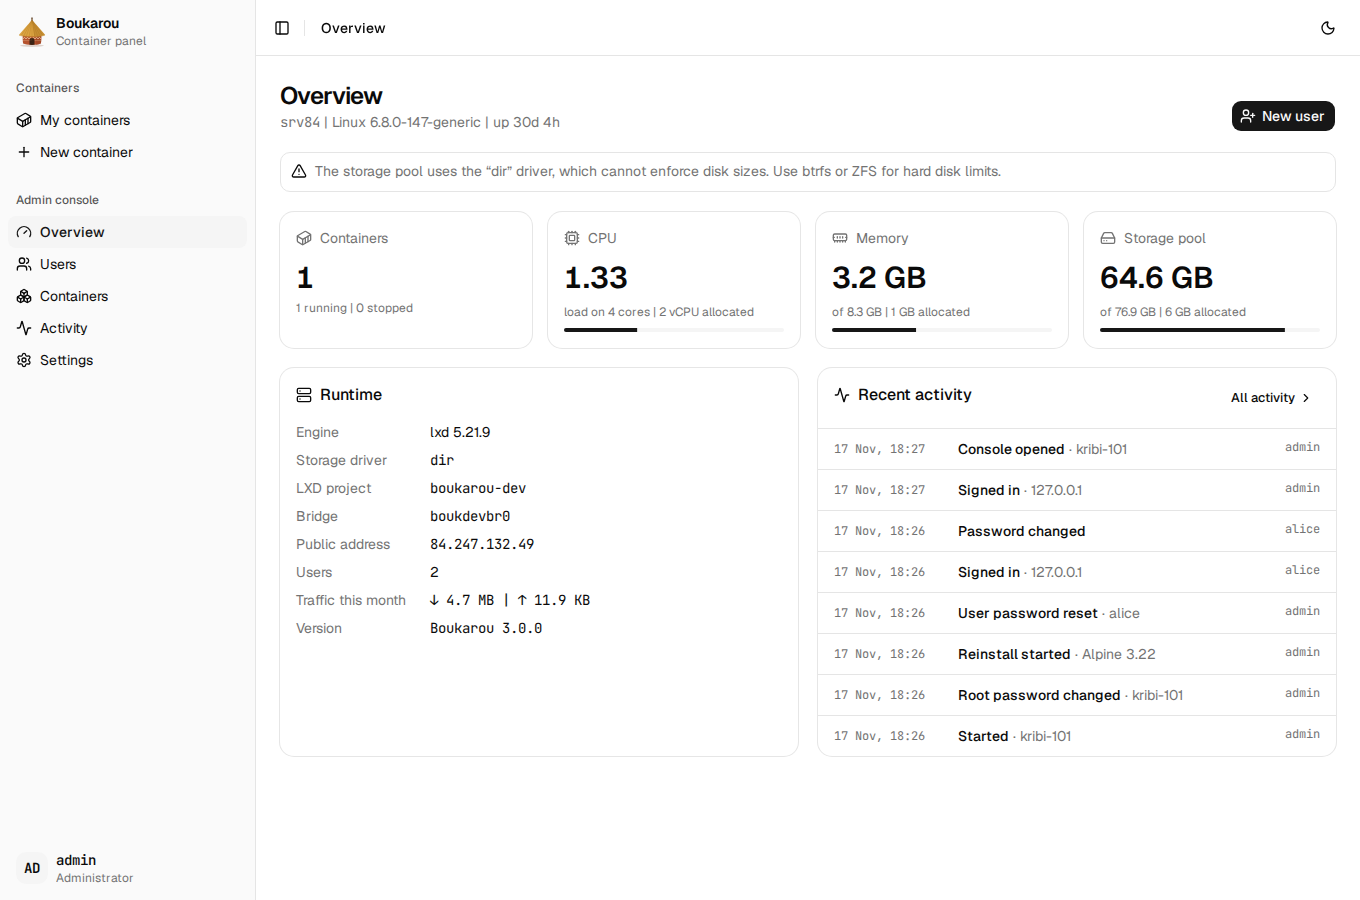
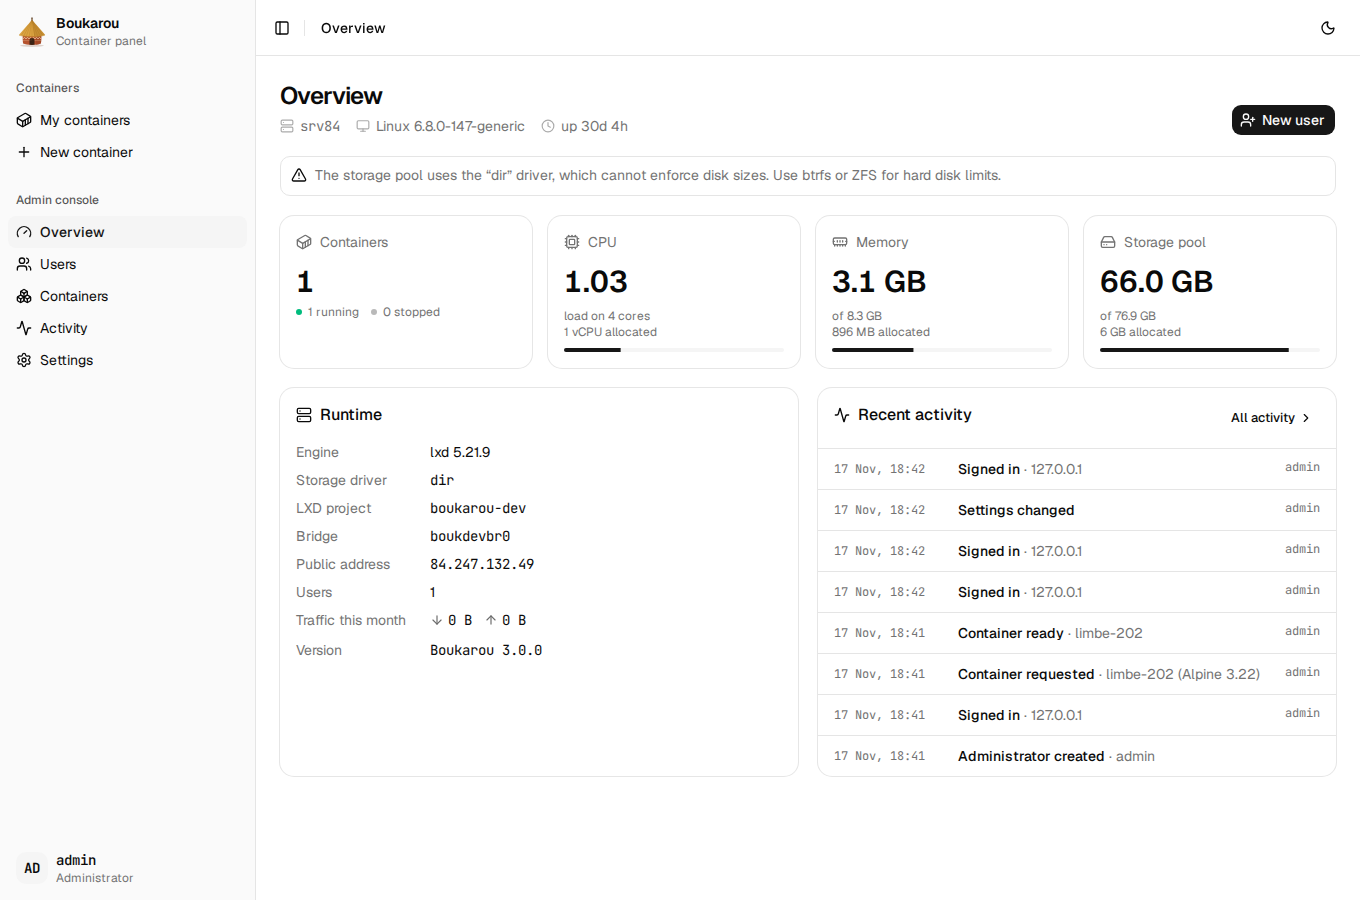
ui: drop the | separators (#18)
Specs and traffic use icons and spacing; stat and header lines are
split into their own items or lines. README screenshots refreshed.

Closes #17

diff --git a/web/src/pages/admin/Overview.vue b/web/src/pages/admin/Overview.vue
@@ -1,5 +1,6 @@
 <script setup lang="ts">
-import { ActivityIcon, ChevronRightIcon, ContainerIcon, CpuIcon, HardDriveIcon, MemoryStickIcon, ServerIcon, TriangleAlertIcon, UserPlusIcon } from '@lucide/vue'
+import InOut from '@/components/app/InOut.vue'
+import { ActivityIcon, ChevronRightIcon, ClockIcon, MonitorIcon, ContainerIcon, CpuIcon, HardDriveIcon, MemoryStickIcon, ServerIcon, TriangleAlertIcon, UserPlusIcon } from '@lucide/vue'
 import { computed } from 'vue'
 import EventList from '@/components/app/EventList.vue'
 import LoadError from '@/components/LoadError.vue'
@@ -34,8 +35,10 @@ const memUsed = computed(() => (data.value ? data.value.host.memTotal - data.val
   <div class="flex flex-wrap items-end justify-between gap-3">
     <div>
       <h2 class="text-2xl font-semibold tracking-tight">{{ t('Overview') }}</h2>
-      <p v-if="data" class="text-muted-foreground text-sm">
-        <span class="font-mono">{{ data.host.hostname }}</span> | {{ data.host.platform }} | {{ t('up {d}', { d: duration(data.host.uptime) }) }}
+      <p v-if="data" class="text-muted-foreground mt-1 flex flex-wrap items-center gap-x-4 gap-y-1 text-sm">
+        <span class="inline-flex items-center gap-1.5"><ServerIcon class="size-3.5 opacity-60" /><span class="font-mono">{{ data.host.hostname }}</span></span>
+        <span class="inline-flex items-center gap-1.5"><MonitorIcon class="size-3.5 opacity-60" />{{ data.host.platform }}</span>
+        <span class="inline-flex items-center gap-1.5"><ClockIcon class="size-3.5 opacity-60" />{{ t('up {d}', { d: duration(data.host.uptime) }) }}</span>
       </p>
     </div>
     <Button as-child><RouterLink to="/admin/users?new=1"><UserPlusIcon data-icon="inline-start" /> {{ t('New user') }}</RouterLink></Button>
@@ -64,8 +67,10 @@ const memUsed = computed(() => (data.value ? data.value.host.memTotal - data.val
         <CardHeader><CardDescription class="flex items-center gap-2"><ContainerIcon class="size-4" /> {{ t('Containers') }}</CardDescription></CardHeader>
         <CardContent class="flex flex-col gap-1">
           <div class="text-3xl font-semibold tabular-nums">{{ data.counts.total }}</div>
-          <p class="text-muted-foreground text-xs">
-            {{ t('{r} running | {s} stopped', { r: data.counts.running || 0, s: data.counts.stopped || 0 }) }}<template v-if="data.counts.failed"> | {{ t('{f} failed', { f: data.counts.failed }) }}</template>
+          <p class="text-muted-foreground flex flex-wrap items-center gap-x-3 gap-y-1 text-xs">
+            <span class="inline-flex items-center gap-1.5"><span class="size-1.5 rounded-full bg-emerald-500" />{{ t('{r} running', { r: data.counts.running || 0 }) }}</span>
+            <span class="inline-flex items-center gap-1.5"><span class="bg-muted-foreground/50 size-1.5 rounded-full" />{{ t('{s} stopped', { s: data.counts.stopped || 0 }) }}</span>
+            <span v-if="data.counts.failed" class="inline-flex items-center gap-1.5"><span class="bg-destructive size-1.5 rounded-full" />{{ t('{f} failed', { f: data.counts.failed }) }}</span>
           </p>
         </CardContent>
       </Card>
@@ -73,7 +78,7 @@ const memUsed = computed(() => (data.value ? data.value.host.memTotal - data.val
         <CardHeader><CardDescription class="flex items-center gap-2"><CpuIcon class="size-4" /> {{ t('CPU') }}</CardDescription></CardHeader>
         <CardContent class="flex flex-col gap-2">
           <div class="text-3xl font-semibold tabular-nums">{{ data.host.load[0]!.toFixed(2) }}</div>
-          <p class="text-muted-foreground text-xs">{{ t('load on {n} cores | {a} vCPU allocated', { n: data.host.cpus, a: data.counts.cpu }) }}</p>
+          <div class="text-muted-foreground text-xs"><p>{{ t('load on {n} cores', { n: data.host.cpus }) }}</p><p>{{ t('{a} vCPU allocated', { a: data.counts.cpu }) }}</p></div>
           <Progress :model-value="Math.min(100, (data.host.load[0]! / data.host.cpus) * 100)" />
         </CardContent>
       </Card>
@@ -81,7 +86,7 @@ const memUsed = computed(() => (data.value ? data.value.host.memTotal - data.val
         <CardHeader><CardDescription class="flex items-center gap-2"><MemoryStickIcon class="size-4" /> {{ t('Memory') }}</CardDescription></CardHeader>
         <CardContent class="flex flex-col gap-2">
           <div class="text-3xl font-semibold tabular-nums">{{ bytes(memUsed) }}</div>
-          <p class="text-muted-foreground text-xs">{{ t('of {t} | {a} allocated', { t: bytes(data.host.memTotal), a: memory(data.counts.memory_mb) }) }}</p>
+          <div class="text-muted-foreground text-xs"><p>{{ t('of {t}', { t: bytes(data.host.memTotal) }) }}</p><p>{{ t('{a} allocated', { a: memory(data.counts.memory_mb) }) }}</p></div>
           <Progress :model-value="(memUsed / data.host.memTotal) * 100" />
         </CardContent>
       </Card>
@@ -89,9 +94,10 @@ const memUsed = computed(() => (data.value ? data.value.host.memTotal - data.val
         <CardHeader><CardDescription class="flex items-center gap-2"><HardDriveIcon class="size-4" /> {{ t('Storage pool') }}</CardDescription></CardHeader>
         <CardContent class="flex flex-col gap-2">
           <div class="text-3xl font-semibold tabular-nums">{{ data.pool ? bytes(data.pool.used) : '-' }}</div>
-          <p class="text-muted-foreground text-xs">
-            {{ data.pool ? t('of {t} | {a} GB allocated', { t: bytes(data.pool.total), a: data.counts.disk_gb }) : t('unknown') }}
-          </p>
+          <div class="text-muted-foreground text-xs">
+            <template v-if="data.pool"><p>{{ t('of {t}', { t: bytes(data.pool.total) }) }}</p><p>{{ t('{a} GB allocated', { a: data.counts.disk_gb }) }}</p></template>
+            <p v-else>{{ t('unknown') }}</p>
+          </div>
           <Progress v-if="data.pool && data.pool.total" :model-value="(data.pool.used / data.pool.total) * 100" />
         </CardContent>
       </Card>
@@ -112,7 +118,7 @@ const memUsed = computed(() => (data.value ? data.value.host.memTotal - data.val
             <dt class="text-muted-foreground">{{ t('Bridge') }}</dt><dd class="font-mono">{{ data.network }}</dd>
             <dt class="text-muted-foreground">{{ t('Public address') }}</dt><dd class="font-mono">{{ data.settings.publicHost || '-' }}</dd>
             <dt class="text-muted-foreground">{{ t('Users') }}</dt><dd>{{ data.counts.users }}</dd>
-            <dt class="text-muted-foreground">{{ t('Traffic this month') }}</dt><dd class="font-mono">↓ {{ bytes(data.traffic.rx) }} | ↑ {{ bytes(data.traffic.tx) }}</dd>
+            <dt class="text-muted-foreground">{{ t('Traffic this month') }}</dt><dd><InOut :down="bytes(data.traffic.rx)" :up="bytes(data.traffic.tx)" /></dd>
             <dt class="text-muted-foreground">{{ t('Version') }}</dt><dd class="font-mono">Boukarou {{ data.version }}</dd>
           </dl>
         </CardContent>

diff --git a/web/src/pages/container/OverviewTab.vue b/web/src/pages/container/OverviewTab.vue
@@ -1,4 +1,5 @@
 <script setup lang="ts">
+import InOut from '@/components/app/InOut.vue'
 import { ActivityIcon, ChartLineIcon, GlobeIcon, KeyRoundIcon } from '@lucide/vue'
 import { computed, ref } from 'vue'
 import CopyLine from '@/components/app/CopyLine.vue'
@@ -58,7 +59,7 @@ const pct = (n: number) => `${Math.round(n)}%`
           <dd class="font-mono">{{ last ? bytes(last.diskUsed) : '-' }} <span class="text-muted-foreground">/ {{ inst.diskGb }} GB</span></dd>
           <dt class="text-muted-foreground">{{ t('Processes') }}</dt><dd class="font-mono">{{ d.live?.processes ?? '-' }}</dd>
           <dt class="text-muted-foreground">{{ t('Network') }}</dt>
-          <dd class="font-mono">↓ {{ last ? rate(last.rx) : '-' }} | ↑ {{ last ? rate(last.tx) : '-' }}</dd>
+          <dd><InOut :down="last ? rate(last.rx) : '-'" :up="last ? rate(last.tx) : '-'" /></dd>
         </dl>
       </CardContent>
     </Card>
@@ -73,10 +74,8 @@ const pct = (n: number) => `${Math.round(n)}%`
       </CardHeader>
       <CardContent class="flex flex-col gap-3">
         <Progress v-if="quotaBytes != null" :model-value="Math.min(100, (used / quotaBytes) * 100)" />
-        <p class="text-muted-foreground text-sm">
-          ↓ {{ bytes(d.traffic.rx) }} {{ t('received') }} | ↑ {{ bytes(d.traffic.tx) }} {{ t('sent') }}
-          <span v-if="inst.trafficBlocked" class="text-destructive"> | {{ t('Quota reached: network is limited until next month.') }}</span>
-        </p>
+        <InOut class="text-muted-foreground text-sm" :down="bytes(d.traffic.rx)" :up="bytes(d.traffic.tx)" :down-label="t('received')" :up-label="t('sent')" />
+        <p v-if="inst.trafficBlocked" class="text-destructive text-sm">{{ t('Quota reached: network is limited until next month.') }}</p>
       </CardContent>
     </Card>
 

diff --git a/web/src/lib/fr.ts b/web/src/lib/fr.ts
@@ -321,12 +321,8 @@ export const fr: Record<string, string> = {
   "Open settings": "Ouvrir les paramètres",
   "The storage pool uses the “dir” driver, which cannot enforce disk sizes. Use btrfs or ZFS for hard disk limits.": "Le pool de stockage utilise le pilote « dir », qui ne peut pas imposer la taille des disques. Utilisez btrfs ou ZFS pour des limites strictes.",
   "up {d}": "en marche depuis {d}",
-  "{r} running | {s} stopped": "{r} en marche | {s} arrêtés",
   "{f} failed": "{f} en échec",
-  "load on {n} cores | {a} vCPU allocated": "charge sur {n} cœurs | {a} vCPU alloués",
-  "of {t} | {a} allocated": "sur {t} | {a} alloués",
   "Storage pool": "Pool de stockage",
-  "of {t} | {a} GB allocated": "sur {t} | {a} Go alloués",
   Runtime: "Moteur",
   Engine: "Moteur",
   "Storage driver": "Pilote de stockage",
@@ -412,4 +408,11 @@ export const fr: Record<string, string> = {
   "Use the username and password your administrator gave you.": "Utilisez l’identifiant et le mot de passe fournis par votre administrateur.",
   "Your Linux containers, with root access over SSH and in the browser.": "Vos conteneurs Linux, avec un accès root en SSH et dans le navigateur.",
   "Your administrator gave you a temporary password. Choose your own before you continue.": "Votre administrateur vous a donné un mot de passe temporaire. Choisissez le vôtre pour continuer.",
+  "{r} running": "{r} en marche",
+  "{s} stopped": "{s} arrêtés",
+  "load on {n} cores": "charge sur {n} cœurs",
+  "{a} vCPU allocated": "{a} vCPU alloués",
+  "of {t}": "sur {t}",
+  "{a} allocated": "{a} alloués",
+  "{a} GB allocated": "{a} Go alloués",
 };

diff --git a/web/src/pages/admin/UserDetail.vue b/web/src/pages/admin/UserDetail.vue
@@ -1,5 +1,5 @@
 <script setup lang="ts">
-import { BanIcon, CheckIcon, ChevronRightIcon, CpuIcon, KeyRoundIcon, ShieldOffIcon, Trash2Icon } from '@lucide/vue'
+import { BanIcon, CalendarIcon, LogInIcon, UserIcon, CheckIcon, ChevronRightIcon, CpuIcon, KeyRoundIcon, ShieldOffIcon, Trash2Icon } from '@lucide/vue'
 import { computed, ref, watch } from 'vue'
 import { useRoute, useRouter } from 'vue-router'
 import { toast } from 'vue-sonner'
@@ -71,8 +71,10 @@ async function save() {
     <div class="flex flex-wrap items-end justify-between gap-3">
       <div>
         <h2 class="font-mono text-2xl font-semibold tracking-tight">{{ u.username }}</h2>
-        <p class="text-muted-foreground flex flex-wrap items-center gap-x-2 text-sm">
-          {{ isAdmin ? t('Administrator') : t('User') }} | {{ t('created {d}', { d: date(u.createdAt) }) }} | {{ t('last sign-in {d}', { d: ago(u.lastLoginAt) }) }}
+        <p class="text-muted-foreground mt-1 flex flex-wrap items-center gap-x-4 gap-y-1 text-sm">
+          <span class="inline-flex items-center gap-1.5"><UserIcon class="size-3.5 opacity-60" />{{ isAdmin ? t('Administrator') : t('User') }}</span>
+          <span class="inline-flex items-center gap-1.5"><CalendarIcon class="size-3.5 opacity-60" />{{ t('created {d}', { d: date(u.createdAt) }) }}</span>
+          <span class="inline-flex items-center gap-1.5"><LogInIcon class="size-3.5 opacity-60" />{{ t('last sign-in {d}', { d: ago(u.lastLoginAt) }) }}</span>
           <Badge v-if="u.disabled" variant="destructive">{{ t('Disabled') }}</Badge>
         </p>
       </div>

diff --git a/web/src/pages/Container.vue b/web/src/pages/Container.vue
@@ -1,4 +1,5 @@
 <script setup lang="ts">
+import Specs from '@/components/app/Specs.vue'
 import {
   ActivityIcon, ChevronRightIcon, CircleCheckIcon, ExpandIcon, GaugeIcon, GlobeIcon, LoaderCircleIcon, PlayIcon,
   RotateCcwIcon, RotateCwIcon, SettingsIcon, SnowflakeIcon, SquareIcon, SquareTerminalIcon, SunIcon, Trash2Icon,
@@ -130,10 +131,10 @@ const goTab = (key: string | number) => router.replace(key === 'overview' ? `/c/
       <OsLogo :family="inst.image.family" size="lg" />
       <div class="min-w-0 flex-1">
         <h2 class="truncate font-mono text-2xl font-semibold tracking-tight">{{ inst.name }}</h2>
-        <div class="text-muted-foreground mt-1 flex flex-wrap items-center gap-x-3 gap-y-1 text-sm">
+        <div class="text-muted-foreground mt-1.5 flex flex-wrap items-center gap-x-4 gap-y-1 text-sm">
           <InstanceStatus :status="status" :busy="inst.busy" />
           <span>{{ inst.image.name }} {{ inst.image.version }}</span>
-          <span class="font-mono">{{ inst.cpu }} vCPU | {{ memory(inst.memoryMb) }} | {{ inst.diskGb }} GB</span>
+          <Specs :cpu="inst.cpu" :memory-mb="inst.memoryMb" :disk-gb="inst.diskGb" />
           <span v-if="inst.owner && !mine">
             {{ t('Owner') }}: <RouterLink :to="`/admin/users/${inst.owner.id}`" class="text-foreground font-mono hover:underline">{{ inst.owner.username }}</RouterLink>
           </span>

diff --git a/web/src/pages/Account.vue b/web/src/pages/Account.vue
@@ -1,5 +1,5 @@
 <script setup lang="ts">
-import { KeyRoundIcon, LanguagesIcon, LogOutIcon, ShieldCheckIcon, ShieldOffIcon } from '@lucide/vue'
+import { CalendarIcon, KeyRoundIcon, ShieldIcon, UserIcon, LanguagesIcon, LogOutIcon, ShieldCheckIcon, ShieldOffIcon } from '@lucide/vue'
 import { useColorMode } from '@vueuse/core'
 import QRCode from 'qrcode'
 import { computed, ref } from 'vue'
@@ -111,9 +111,10 @@ async function revoke() {
 <template>
   <div v-if="user">
     <h2 class="text-2xl font-semibold tracking-tight">{{ t('Account & security') }}</h2>
-    <p class="text-muted-foreground text-sm">
-      <span class="font-mono">{{ user.username }}</span> | {{ isAdmin ? t('Administrator') : t('User') }} |
-      {{ t('Member since {d}', { d: date(user.createdAt) }) }}
+    <p class="text-muted-foreground mt-1 flex flex-wrap items-center gap-x-4 gap-y-1 text-sm">
+      <span class="inline-flex items-center gap-1.5"><UserIcon class="size-3.5 opacity-60" /><span class="font-mono">{{ user.username }}</span></span>
+      <span class="inline-flex items-center gap-1.5"><ShieldIcon class="size-3.5 opacity-60" />{{ isAdmin ? t('Administrator') : t('User') }}</span>
+      <span class="inline-flex items-center gap-1.5"><CalendarIcon class="size-3.5 opacity-60" />{{ t('Member since {d}', { d: date(user.createdAt) }) }}</span>
     </p>
   </div>
 

diff --git a/web/src/pages/NewContainer.vue b/web/src/pages/NewContainer.vue
@@ -1,4 +1,5 @@
 <script setup lang="ts">
+import Specs from '@/components/app/Specs.vue'
 import { CpuIcon, HardDriveIcon, KeyRoundIcon, PlusIcon, ShuffleIcon, TagIcon } from '@lucide/vue'
 import { computed, ref, watch } from 'vue'
 import { useRouter } from 'vue-router'
@@ -197,7 +198,7 @@ const clampInt = (value: string | number, min: number, max: number | null) => {
                 @click="applyPreset(p)"
               >
                 <div class="text-sm font-medium">{{ t(p.label) }}</div>
-                <div class="text-muted-foreground font-mono text-xs">{{ p.cpu }} vCPU | {{ memory(p.mem) }} | {{ p.disk }} GB</div>
+                <Specs class="text-muted-foreground mt-1 text-xs" :cpu="p.cpu" :memory-mb="p.mem" :disk-gb="p.disk" />
               </button>
             </div>
             <div class="grid gap-4 sm:grid-cols-3">

diff --git a/web/src/components/app/Specs.vue b/web/src/components/app/Specs.vue
@@ -1,0 +1,15 @@
+<script setup lang="ts">
+import { CpuIcon, HardDriveIcon, MemoryStickIcon } from '@lucide/vue'
+import { memory } from '@/lib/format'
+
+defineProps<{ cpu: number; memoryMb: number; diskGb: number }>()
+</script>
+
+<template>
+  <!-- Each resource stands on its own, set apart by an icon and spacing rather than a separator. -->
+  <span class="inline-flex flex-wrap items-center gap-x-3 gap-y-1 font-mono">
+    <span class="inline-flex items-center gap-1"><CpuIcon class="size-3.5 opacity-60" />{{ cpu }} vCPU</span>
+    <span class="inline-flex items-center gap-1"><MemoryStickIcon class="size-3.5 opacity-60" />{{ memory(memoryMb) }}</span>
+    <span class="inline-flex items-center gap-1"><HardDriveIcon class="size-3.5 opacity-60" />{{ diskGb }} GB</span>
+  </span>
+</template>

diff --git a/web/src/components/app/InOut.vue b/web/src/components/app/InOut.vue
@@ -1,0 +1,12 @@
+<script setup lang="ts">
+import { ArrowDownIcon, ArrowUpIcon } from '@lucide/vue'
+
+defineProps<{ down: string; up: string; downLabel?: string; upLabel?: string }>()
+</script>
+
+<template>
+  <span class="inline-flex flex-wrap items-center gap-x-3 gap-y-1">
+    <span class="inline-flex items-center gap-1"><ArrowDownIcon class="size-3.5 opacity-60" /><span class="font-mono">{{ down }}</span><span v-if="downLabel">{{ downLabel }}</span></span>
+    <span class="inline-flex items-center gap-1"><ArrowUpIcon class="size-3.5 opacity-60" /><span class="font-mono">{{ up }}</span><span v-if="upLabel">{{ upLabel }}</span></span>
+  </span>
+</template>
